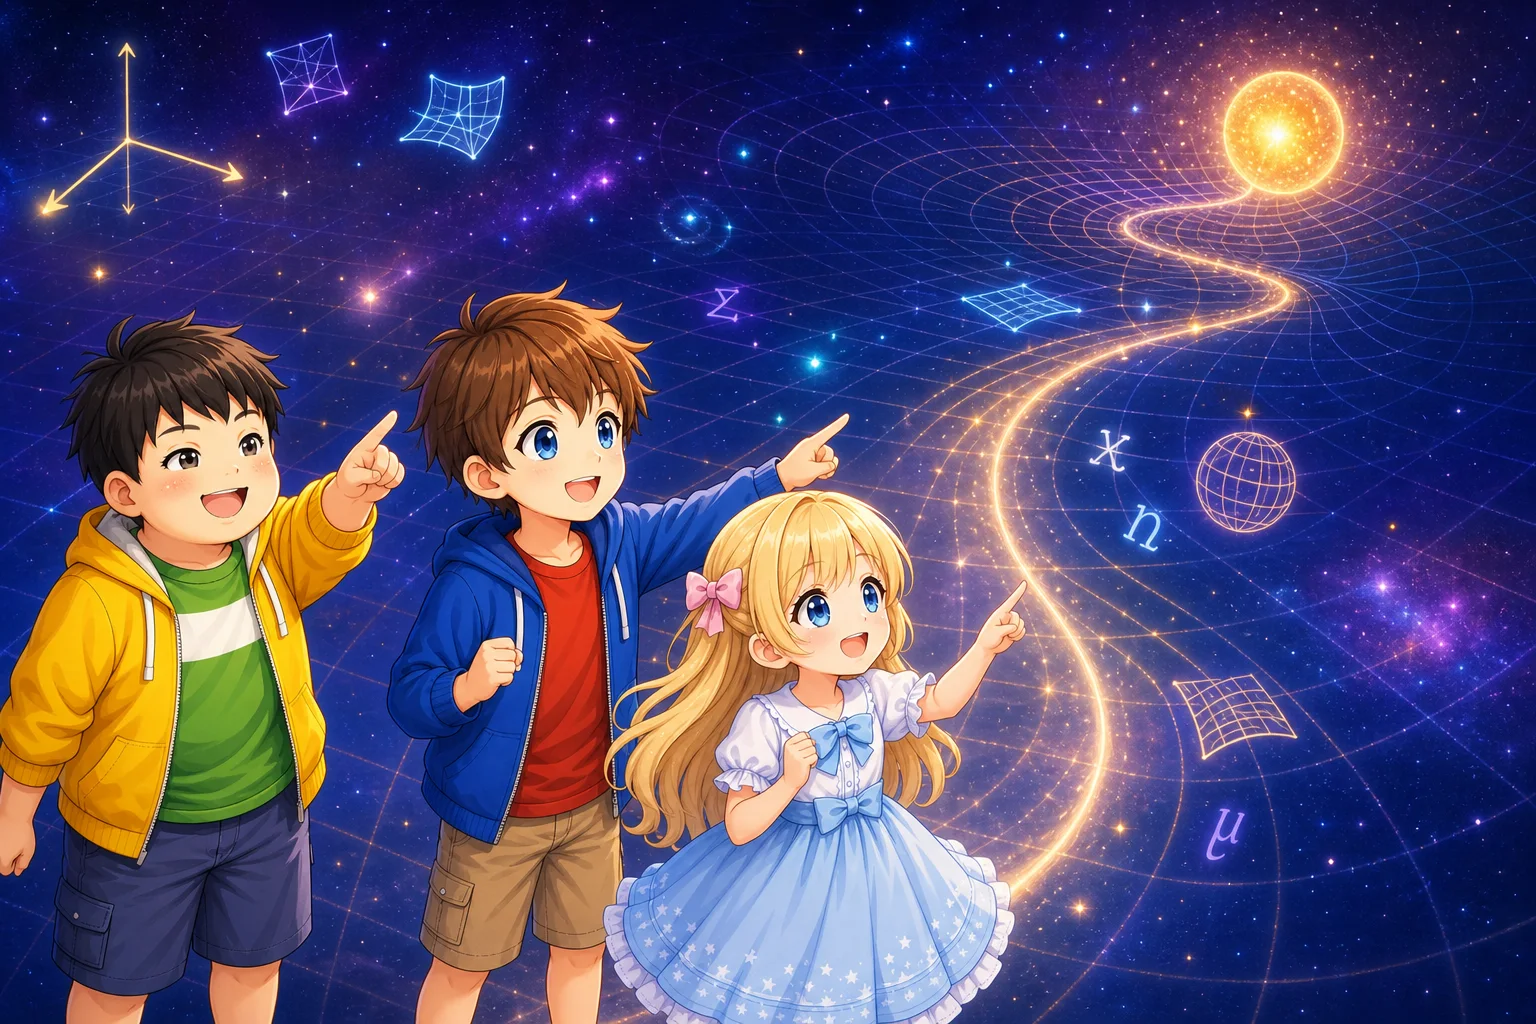
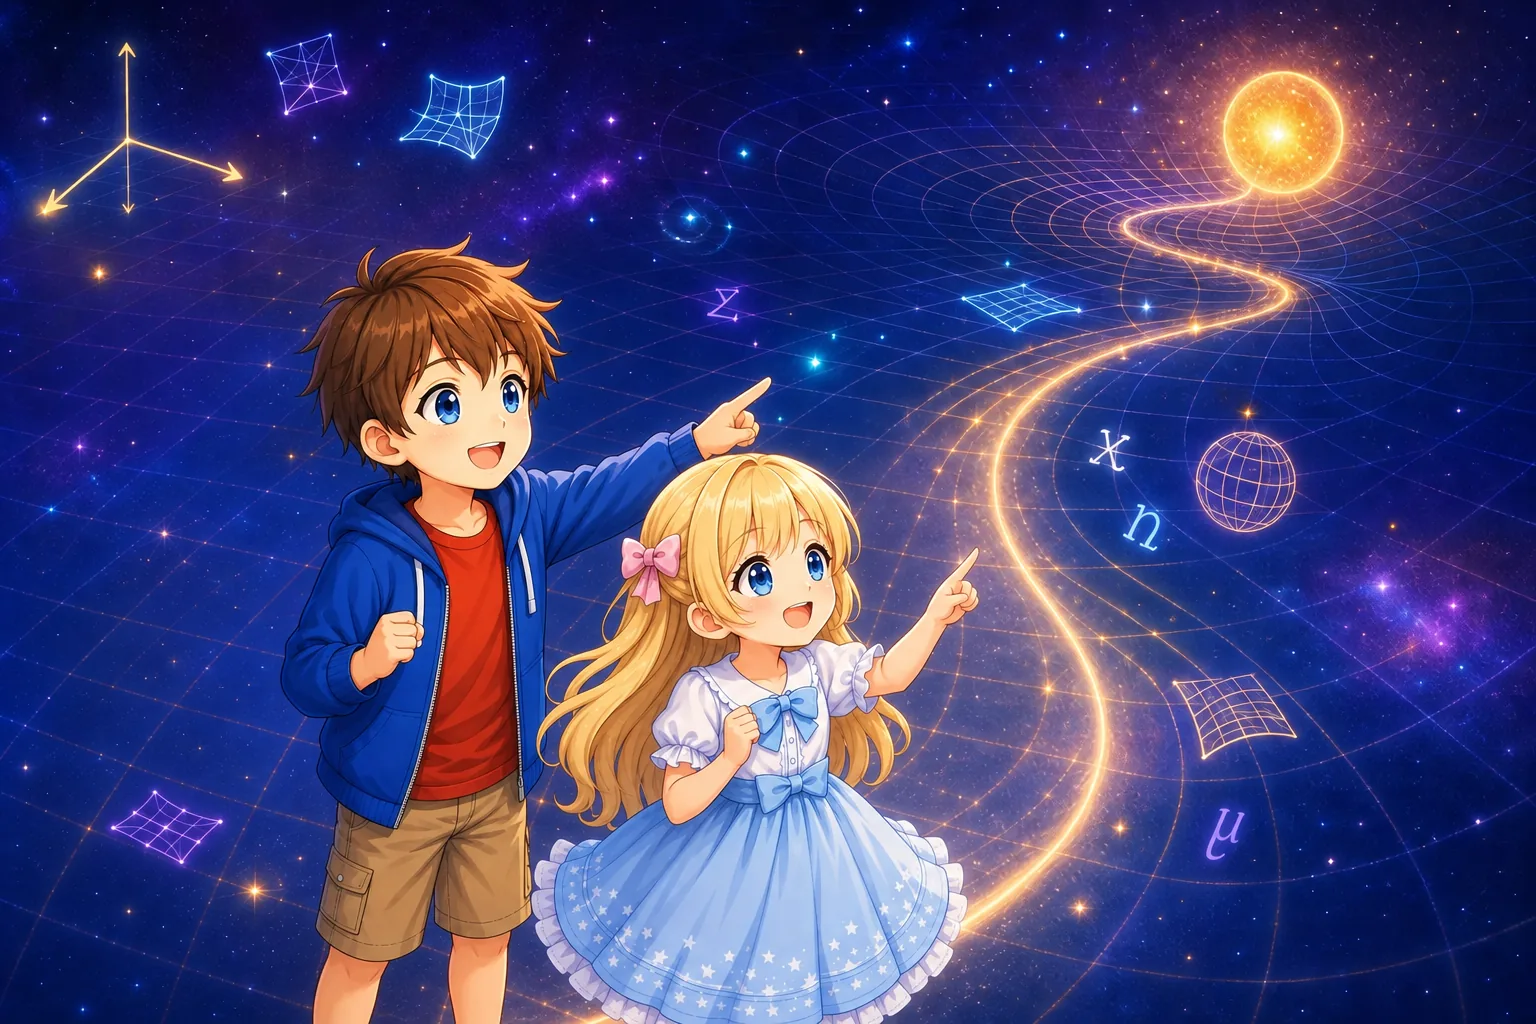
Refine character illustrations

diff --git a/docs/jp/general-relativity/00-Introduction.md b/docs/jp/general-relativity/00-Introduction.md
@@ -2,9 +2,9 @@
 
 ## テンソルから時空の測定まで
 
-![曲がった時空の謎を追いかけるAlice、Bob、Charlie](../../../images/general-relativity/00/general-relativity-cover.webp)
+![曲がった時空の謎を追いかけるAliceとBob](../../../images/general-relativity/00/general-relativity-cover.webp)
 
-*座標、計量、曲率――Aliceたちは、時空を記述する式の向こうに何が見えるのかを追いかける*
+*座標、計量、曲率――AliceとBobは、時空を記述する式の向こうに何が見えるのかを追いかける*
 
 ---
 
